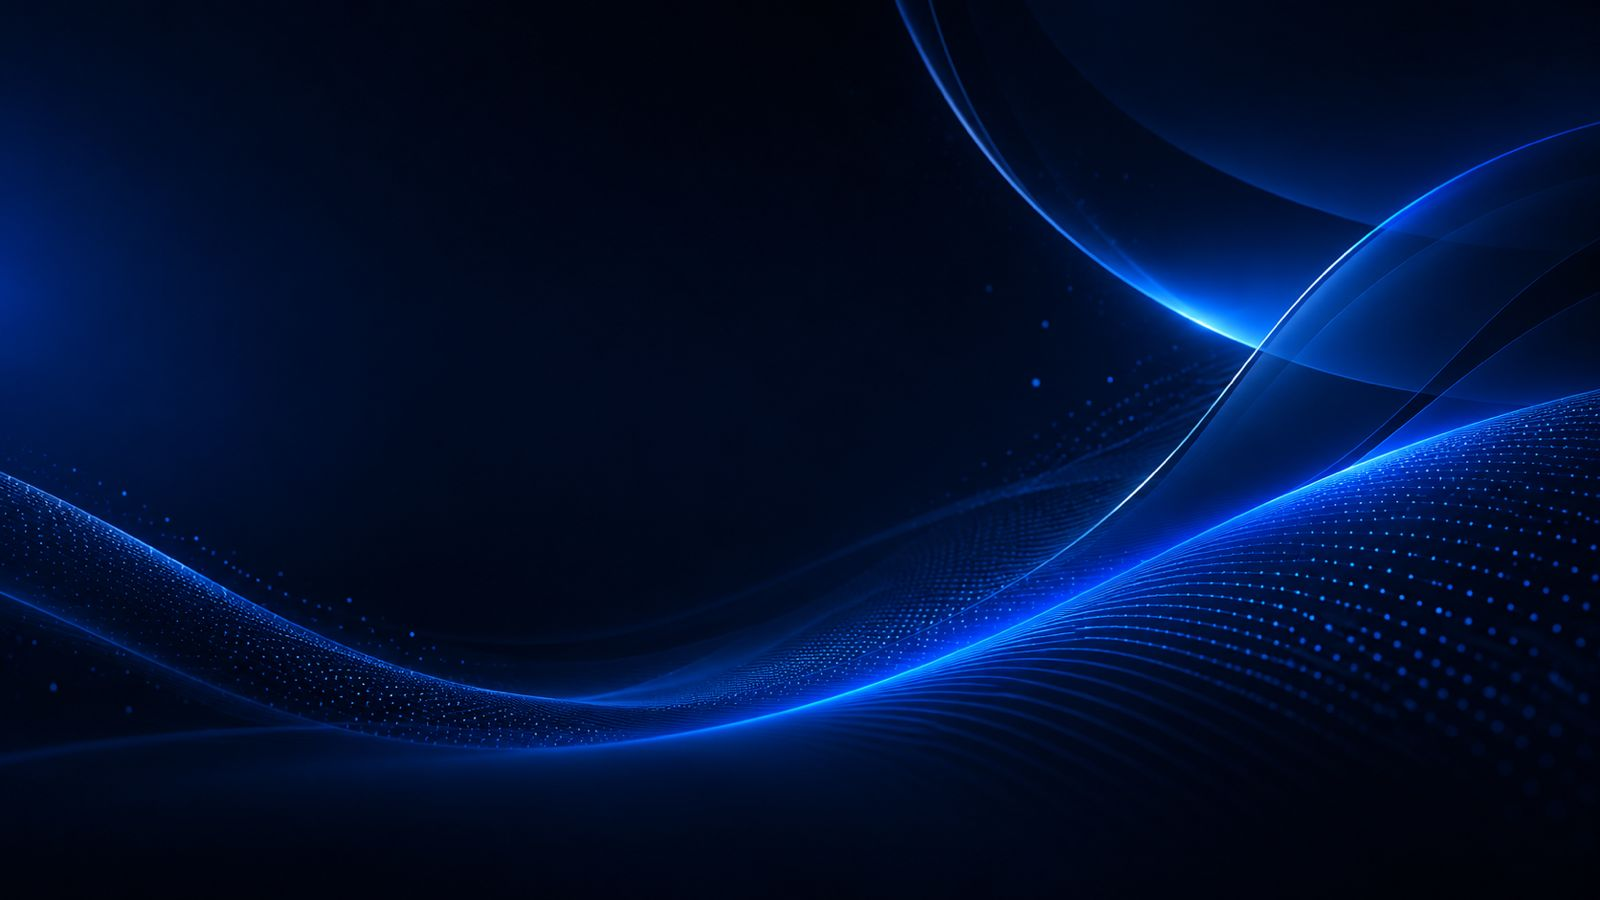
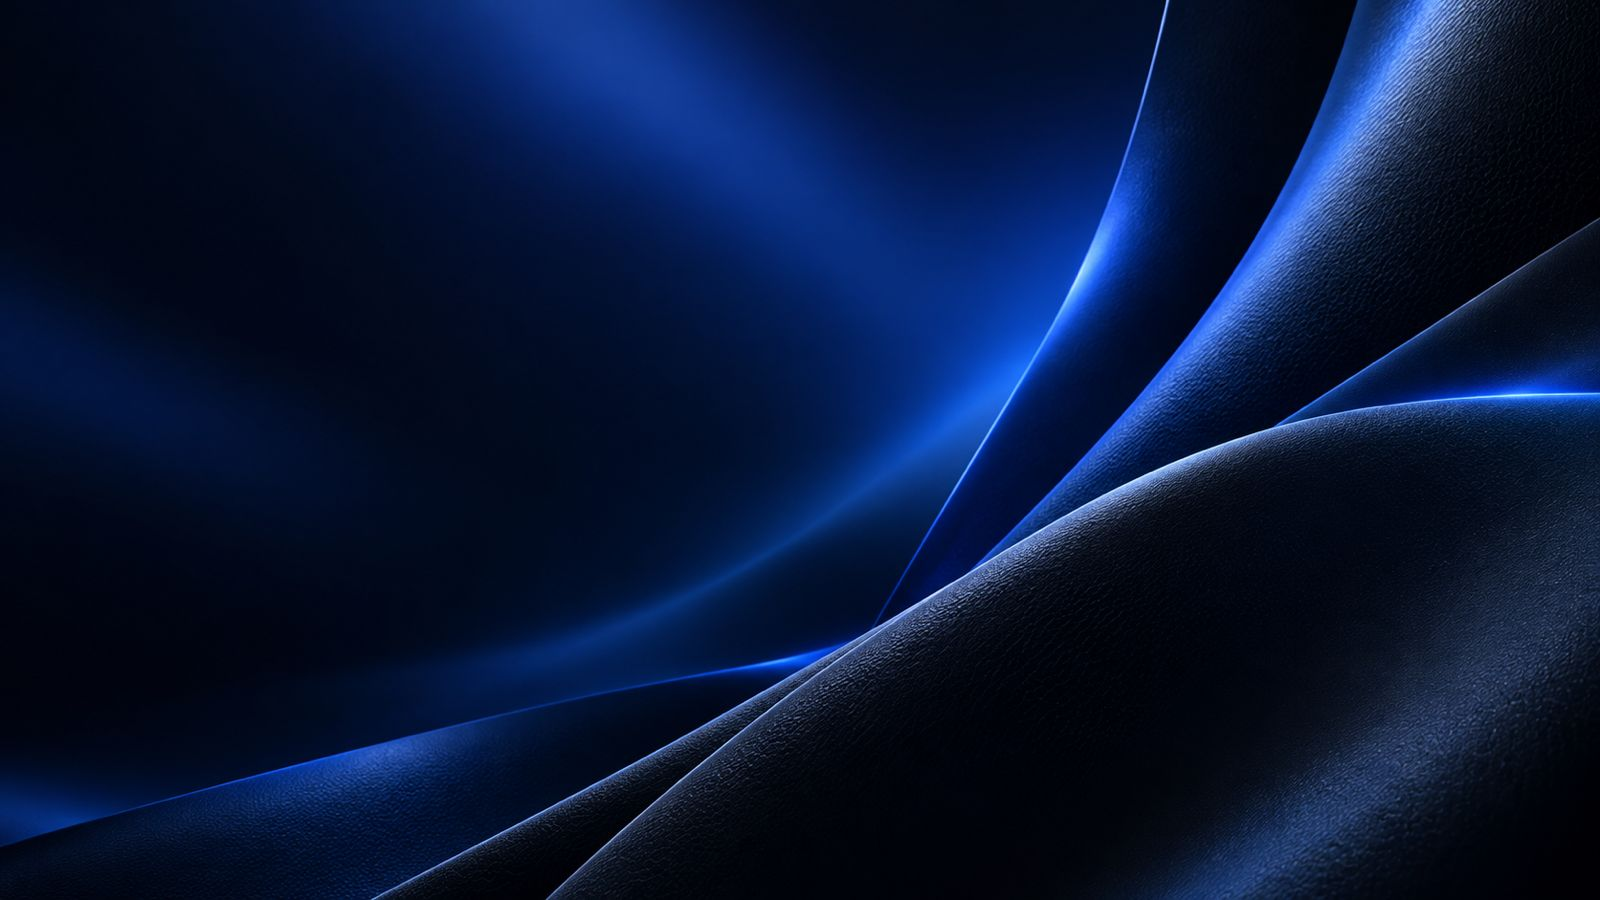
Make the project cards' dark panel a true transparent window
Move the backdrop image to the section level (behind the sliding strip
on desktop, behind the whole stack on mobile) instead of painting it
onto each card. Also moved the opaque var(--card) fill from the Link
wrapper onto just the text panel — it was covering the "transparent"
dark panel from behind, so the panel was only showing its own parent's
color, not the real backdrop several layers back.

Net effect: the backdrop now reads as one continuous image behind all
the cards, visible through each dark panel as a real window — verified
at 1920px and on mobile, the wave line in the texture runs unbroken
through both cards and the gap between them, matching the reference.

diff --git a/src/components/sections/WorkScrollShowcase.tsx b/src/components/sections/WorkScrollShowcase.tsx
@@ -23,17 +23,22 @@ function ProjectCard({
 }) {
   return (
     <div
-      style={{ background: "var(--bg)", ...style }}
+      style={style}
       className={`relative flex-shrink-0 flex items-center justify-center p-1 sm:p-1.5 ${className}`}
     >
       <Link
         href={`/work/${p.slug}`}
         aria-label={`View ${p.name} project`}
-        style={{ background: "var(--card)", border: "1px solid var(--border)" }}
+        style={{ border: "1px solid var(--border)" }}
         className="group relative flex h-[88%] w-full flex-col overflow-hidden rounded-[28px] sm:h-[72%] sm:flex-row"
       >
-        {/* Text panel */}
-        <div className="order-2 flex min-w-0 flex-1 flex-col justify-start gap-6 p-6 sm:order-1 sm:justify-between sm:gap-5 sm:p-10">
+        {/* Text panel — the only opaque part of the card, so the dark panel
+            below stays a true window onto the section's shared backdrop
+            instead of just showing this card's own background. */}
+        <div
+          style={{ background: "var(--card)" }}
+          className="order-2 flex min-w-0 flex-1 flex-col justify-start gap-6 p-6 sm:order-1 sm:justify-between sm:gap-5 sm:p-10"
+        >
           <div className="flex items-start justify-between gap-4">
             <div className="min-w-0">
               <p
@@ -72,16 +77,13 @@ function ProjectCard({
           </div>
         </div>
 
-        {/* Dark panel — no per-project screenshot; a shared backdrop image
-            shows through (via the section's own background), just like the
-            reference: a transparent window carrying only the index number. */}
+        {/* Dark panel — fully transparent, no background of its own. It's a
+            window straight onto the section's shared backdrop (see
+            DesktopShowcase / MobileShowcase), carrying only the index
+            number; the text panel above is this card's only opaque part. */}
         <div
-          style={{
-            backgroundImage: `url(${PROJECTS_SECTION_BG})`,
-            backgroundSize: "cover",
-            backgroundPosition: "center",
-          }}
-          className="relative order-1 mx-3 mt-3 h-[42%] w-auto flex-shrink-0 overflow-hidden rounded-[20px] sm:order-2 sm:mb-3 sm:ml-0 sm:mt-3 sm:h-auto sm:w-[44%]"
+          style={{ borderColor: "var(--border)" }}
+          className="relative order-1 h-[42%] w-auto flex-shrink-0 border-t sm:order-2 sm:h-auto sm:w-[44%] sm:border-l sm:border-t-0"
         >
           <span
             style={{ fontFamily: "var(--font-bebas)", color: "var(--accent)" }}
@@ -138,7 +140,18 @@ function DesktopShowcase() {
   return (
     <section ref={containerRef} style={{ height: `${total * 100}vh` }} className="relative">
       <div className="sticky top-0 h-screen w-full overflow-hidden">
-        <motion.div style={{ x }} className="flex h-full">
+        {/* Shared backdrop — stays put on screen (it's a sibling of the
+            sliding strip, not inside it) so each card's transparent dark
+            panel acts as a window onto it as the strip moves past. */}
+        <div
+          className="absolute inset-0"
+          style={{
+            backgroundImage: `url(${PROJECTS_SECTION_BG})`,
+            backgroundSize: "cover",
+            backgroundPosition: "center",
+          }}
+        />
+        <motion.div style={{ x }} className="relative flex h-full">
           {projects.map((p, i) => (
             <ProjectCard key={p.slug} p={p} index={i} style={cardStyle} className="" />
           ))}
@@ -180,7 +193,22 @@ function MobileShowcase() {
   const total = projects.length + 1; // +1 for the closing "Projects" card
 
   return (
-    <div>
+    <div className="relative">
+      {/* Shared backdrop. Sticky + a negative bottom margin pins it to the
+          viewport for the whole stack's scroll range without reserving any
+          layout height of its own (the stacked cards' z-index keeps it
+          behind all of them). Each card's dark panel is a transparent
+          window onto this one image, same idea as the desktop strip. */}
+      <div
+        className="sticky top-0 z-0"
+        style={{
+          height: "100dvh",
+          marginBottom: "-100dvh",
+          backgroundImage: `url(${PROJECTS_SECTION_BG})`,
+          backgroundSize: "cover",
+          backgroundPosition: "center",
+        }}
+      />
       {projects.map((p, i) => (
         <StickyWrap key={p.slug} index={i}>
           <ProjectCard p={p} index={i} className="h-full w-full" />
